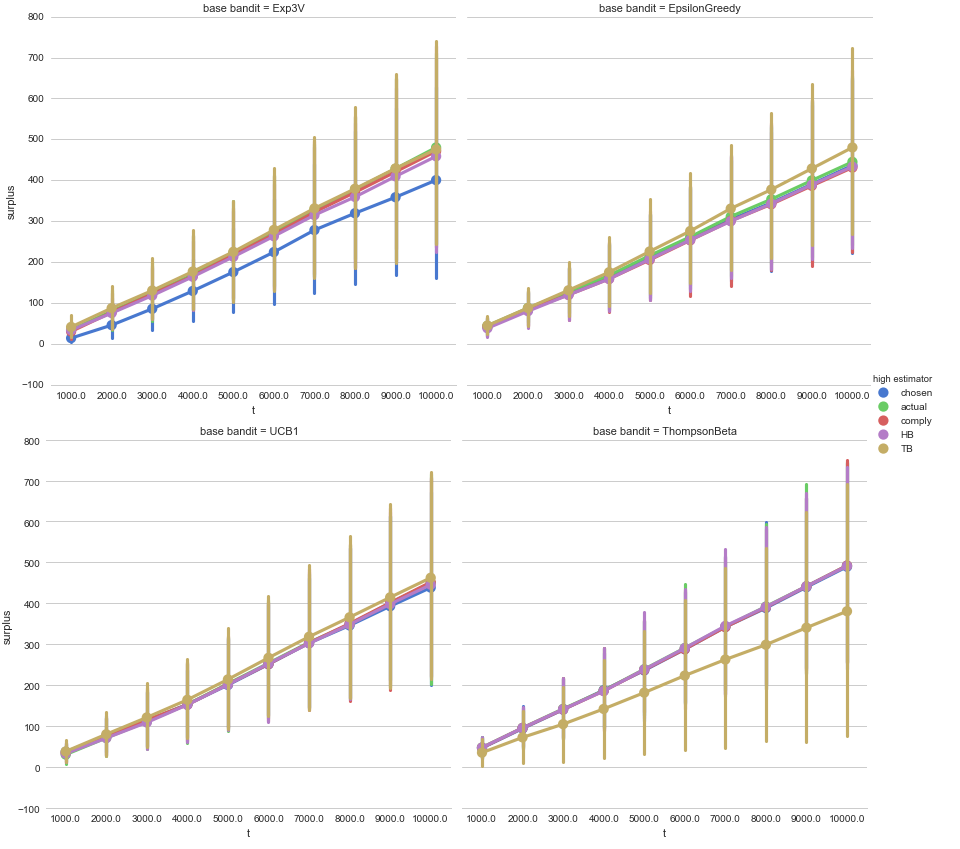
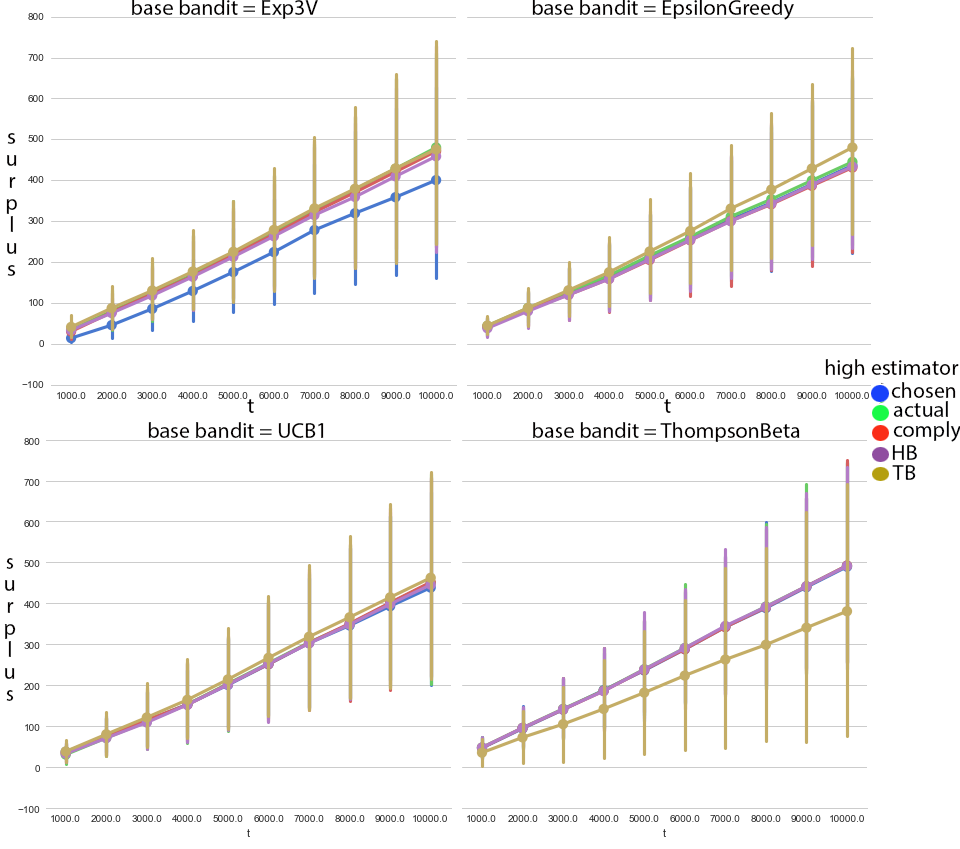
Updates from Overleaf

diff --git a/advice/market.tex b/advice/market.tex
@@ -16,7 +16,7 @@ This chapter considers a subject facing a decision, who wishes to incentivize mu
 Experts do not have intrinsic interest in the action the subject chooses or actually takes, nor do they face any costs in acquiring their signals.
 This model is closely related to that studied in \emph{decision markets}, but varies by requiring that the subject of the decision maintain autonomy over what action is taken. This effectively rules out those mechanisms for decision markets that constraint the action taken.
 
-Preserving subject autonomy is an inherently desirable practical design criterion, as it enables no-regret exploration on the part of the subject. The subject remains in control of the decision at all points, so trying using the mechanism cannot restrict their choices or reduce their expected welfare.\footnote{One can set a reserve price of the advice auction to the expected value of the action the agent would have picked if she did not participate in the mechanism. As long as the reserve price is set a priori or alternative reports from the non-winning bidders are the only thing used to set it, the incentives do not change from those analyzed here.}.
+Preserving subject autonomy is an inherently desirable practical design criterion, as it enables no-regret exploration on the part of the subject. The subject remains in control of the decision at all points, so trying using the mechanism cannot restrict their choices or reduce their expected welfare.\footnote{One can set a reserve price of the advice auction to the expected value of the action the agent would have picked if she did not participate in the mechanism. As long as the reserve price is set a priori or alternative reports from the non-winning bidders are the only thing used to set it, the incentives do not change from those analyzed here.}
 
 
 
@@ -28,13 +28,15 @@ The key conceptual contribution that allows this is to consider the allocation n
 The item to be allocated is the right to observe the signal reports, provide the advice, and obtain a (linear) share of the reward obtained by the subject.
 We term these mechanisms \emph{advice auctions}.
 The term ``advice'' is chosen to highlight that the decision is not ultimately determined by the market, thus preserving the subject's freedom.
-The term ``auction'' highlights that this procedure does not produce a sequence of prices through time.
-It is this simultaneous nature that allows us to side-step the negative (from the perspective of freedom) results that constrain sequential mechanisms to having full support over actions in order to provide  incentives.
+The term ``auction'' highlights that this procedure does not produce a sequence of prices through time, in contrast to market maker based approaches.
+It is this simultaneous nature that allows us to side-step the negative (from the perspective of freedom) results that constrain sequential mechanisms to having full support over actions in order to provide aligned incentives.
 
 Sharing rewards after choosing what decision to advise is neither a pure private value (since the optimal choice conditional on information makes the value the same for everyone) nor pure common value (since the ability the select the optimal choice given access to the other signals might vary across agents).
 A advantage of this framing as opposed to having a mechanism that directly outputs a chosen action is that it allows for the expert making the recommendation to have different influences on the subject (i.e. some experts may be more persuasive).
 If the mechanism output was a choice to advise the subject directly, we would have to restrict the expected reward the subject receives not to depend on which expert submitted which report. This can be seen as  a limit on subject freedom, since it it is an external constraint.
 By having the mechanism select the expert instead of the choice, it also becomes natural to extend to the more practical setting that does not require the mechanism to have access to the valuation functions, but instead rely on the highest bidder to be able to aggregate reported signals effectively.
+
+% bergemann2009information has a creference that only the indepdent signals can be detail free from 
 
 %This closely follows work on efficiency allocation with interdependent values , and our mechanism has the same two steps: first agents submit their signals so as to be able to determine the probabilities over states of the world, and the results of that are used to pick an efficient allocation in what is private .  
 
@@ -43,8 +45,8 @@ By having the mechanism select the expert instead of the choice, it also becomes
 
 One way to incentivize the experts is by applying the machinery of prediction markets based on sequentially shared proper scoring rules to the expected reward conditional on the action.
 A challenge that presents itself is how to settle the markets for the reward conditional on the action which is not taken.
-One natural approach is to void the trades in the markets for these actions, this being the originally proposed mechanism in this line of work \citep{hanson2002decision}, and only settling the markets where actions are taken.
-While seemingly natural, this is not incentive compatible for the experts, even in the weak myopic sense, as shown in \citep{othman2010decision}. 
+One natural approach is to void the trades in the markets for these actions, this being the originally proposed mechanism in this line of work by \citet{hanson2002decision}, and only settling the markets where actions are taken.
+While seemingly natural, this is not incentive compatible for the experts, even in the weak myopic sense, as shown in \citet{othman2010decision}. 
 
 To understand why this is the case, consider a last trader facing the prediction market (sequential proper scoring rule)  where the  price is correct (matches the expected reward) for the optimal action, but there is some other action that is mispriced. The profit maximizing move for this trader is to lower the price of the optimal action below the true price of the previously mispriced action, and correct the mispriced action to its true  price. 
 The utility maximizing subject would then carry out the suboptimal action, the expert would be rewarded for correctly predicting it and would receive no punishment for the error she introduced into the reward of the optimal action. 
@@ -116,11 +118,12 @@ The payment rules $p_i: \times _j S_j \rightarrow \mathbb R$ map the reported si
 Experts are risk neutral, so their expected utility is quasilinear, given in the reduced form by $x_i (\vec{b}) \cdot v_i(\vec{s}) - p_i(\vec{b})$ where $\vec{s}$ is the true signal profile of the experts.
 
 
-One cannot hope for truth-telling to be a dominant strategy for the experts. One expert's misreport can cause other experts to also misreport to compensate. Thus the strongest incentive-compatibility (IC) notion that we can hope for in this setting is that truthfulness is an ex-post Nash Equilibrium. That is, it is in every agent $i$'s best interest to report her true signal $s_i$ given that all other agents reported the true signal profile $\vec{s}_{-i}$. Formally, for all $\vec{s} \in \times _{j} \  S_j, b_i \in S_i$ we have
-$$x_i(\vec{s}) \cdot v_i(\vec{s}) - p_i(\vec{s}) \geq x_i(b_i, \vec{s}_{-i}) \cdot v_i(\vec{s}) - p_i(b_i, \vec{s}_{-i})$$
+One cannot hope for truth-telling to be a dominant strategy for the experts. One expert's misreport can cause other experts to also misreport to compensate. Thus the strongest incentive-compatibility (IC) notion that we can hope for in this setting is is ex-post Nash Equilibrium. That is, it is in every agent $i$'s best interest to report her true signal $b_i = s_i$ given that all other agents reported their true signals profile $b_{-i} = \vec{s}_{-i}$. Fix a signal profile $\vec{s} \in \times _{j} \  S_j$. For all $b_i \in S_i$ we have $$x_i(\vec{s}) \cdot v_i(\vec{s}) - p_i(\vec{s}) \geq x_i(b_i, \vec{s}_{-i}) \cdot v_i(\vec{s}) - p_i(b_i, \vec{s}_{-i})$$
 %TODO should this equation go, too?
 
+We use the equivalent, ex-post notion of individually rational (IR): $$x_i(\vec{s}) \cdot v_i(\vec{s}) - p_i(\vec{s}) \geq 0$$
 
+As is standard we say a mechanism is truthful when it is both incentive compatible and individually rational.
 
 %As in \citep{mclean2004informational} an experts  information may be of two qualitatively different kinds: information about the objective characteristics of the subject and the effects of their alternative decisions and how generally persuasive they are to find the recommended action.
 %Idiosyncratic information about the agent himself: their ability to aggregate the signals efficiently, and how persuasive the would result as the advisors who selected $c$ in the second stage of the game. 
@@ -139,7 +142,7 @@ The core of the mechanism is simple. Since there is knowledge by the mechanism o
    That is, the allocation rule is
 
 %$$x(\vec{s}) = i \quad \quad\quad \text{when} \quad\quad\quad x_j(\vec{s}) = \begin{cases} 1 & \text{if } j=i \\ 0 & \text{otherwise.} \end{cases}$$
-   $$x_i(\vec{b}) = \begin{cases} 1 & \text{if } i = i^* \\ 0 & \text{otherwise.} \end{cases}$$
+   $$x_i(\vec{b}) = \begin{cases} 1 & \text{if } i = argmax_j \{v_j(\vec b)\}  \\ 0 & \text{otherwise.} \end{cases}$$
       %TODO did i do this right?
 
 This lets the expert $i^*$ observe  $\vec{b}$ and then select $c$.
@@ -161,25 +164,29 @@ The payment rule then is
 An allocation function $x_i$ is called {\sl deterministic} if $x_i(\vec{b})\in \{0,1\}$ for all $i$ and all $\vec{b}$.
 The generalized direct VCG mechanism is deterministic and prior-free.
 
+
+
 \subsection{Truthfulness with Single Crossing Signals}
+
+The advice auction provides incentives for experts to provide good advice since they stand to share in the profits. In the simple case where the experts each know all they need to provide the advice and know what outcome to expect form it, the expert who can provide advice that leads to the actual action taken by the agent having the highest reward also has the highest valuation for giving the advice. The link to auction theory allows to immediately derive results when the information structure of the experts is more complicated, such that they need to consider the signals (as expressed in their bids) of the other experts to decide upon the optimal advice or value the reward the agent (and thus them if they win) is likely to obtain. The appropriate auction theoretic framework for this is that of interdependent signals. 
+
 %TODO define truthfulness
 \begin{defn}[Monotonicity]
 	An allocation function $x_i$ is said to be \emph{monotone} if for every $\vec{b}_{-i}$, $x_i(b_i,\vec{b}_{-i})$ is monotone non-decreasing in $b_i$.
 \end{defn}
 
-Truthful mechanisms can be characterized as follows \citep{roughgarden2016optimal}.
+Truthful mechanisms can be characterized as follows as in \citet{roughgarden2016optimal} Proposition 5.1.
 
 \begin{prop}\label{prop:char-ic}
 	Monotonicity is a necessary and sufficient condition for allocation functions $x$ to be \emph{implementable}, {\sl i.e.}, there exist payment functions $p$ such that the mechanism $(x,p)$ is truthful.  Moreover, an analogue of Myerson's payment identity holds, so the payment is uniquely determined by the allocation function.%TODO give reference to Myerson.
 \end{prop}
 
 It follows that constructing a truthful mechanism is equivalent to constructing a monotone allocation function.
-For deterministic truthful mechanisms, the payment identity of \citep{roughgarden2016optimal} implies the following about the cost charged to a chosen expert  \citep{eden2018interdependent}.
+For deterministic truthful mechanisms, the payment identity of \citet{roughgarden2016optimal} implies the following about the cost charged to a chosen expert  \citep{eden2018interdependent}.
 
 \begin{prop}\label{prop:deterministic_payment}
 	Let agent $i$ be the allocated winner at report profile $\vec{b}$ in a deterministic truthful mechanism. Then her cost is her value at the critical signal.
 \end{prop}
-
 
 A single-crossing condition captures the idea that bidder $i$'s signal has a greater effect on experts $i$'s value than on any other expert's value. We follow the definition in \citep{eden2018interdependent}:
 
@@ -227,12 +234,12 @@ The challenge this faces is that the signal reports being submitted would not ma
 	Then the mechanism gives the rights bundle to the expert $i^*$ with the highest bid:
 	
 	%$$x(\vec{b}) = i \quad \quad\quad \text{when} \quad\quad\quad x_j(\vec{b}) = \begin{cases} 1 & \text{if } j=i \\ 0 & \text{otherwise.} \end{cases}$$
-   $$x_i(\vec{b}) = \begin{cases} 1 & \text{if } i = i^* \\ 0 & \text{otherwise.} \end{cases}$$
+   $$x_i(\vec{b}) = \begin{cases} 1 & \text{if }  i = argmax_j \{v_j(\vec b)\ \\ 0 & \text{otherwise.} \end{cases}$$
       %TODO again: did i do this right?
 	
       This lets the expert $i^*$ observe  $\vec{b}$ and $\vec s$ and then select $c$. The subject then observes $c$ and $\vec{b}$, takes their action $a$ and receives reward $r$, which the mechanism observes. 
 
-	The experts that were not selected receive  payment $\beta r$, while the selected expert $i^*$ receives their shares $(\alpha + \beta) r$ of the reward minus the second highest bid, $b_{i^*-1}$.
+	The experts that were not selected receive  payment $\beta r$, while the selected expert $i^*$ receives their shares $(\alpha + \beta) r$ of the reward minus the second highest bid. Without loss of generality we sort the bids, so the second highest is denoted by $b_{i^*-1}$.
 
 	Thus, the payment rule is:
 	
@@ -274,7 +281,7 @@ For contrast consider the identical mechanism but without the experts submitting
  	Each expert observes their signal and then report only a bid $b_i$. The mechanism gives the rights bundle to the expert $i^*$ with the highest bid:
  	
 % 	$$x(\vec{b}) = i \quad \quad\quad \text{when} \quad\quad\quad x_j(\vec{b}) = \begin{cases} 1 & \text{if } j=i \\ 0 & \text{otherwise.} \end{cases}$$
- 	   $$x_i(\vec{b}) = \begin{cases} 1 & \text{if } i = i^* \\ 0 & \text{otherwise.} \end{cases}$$
+ 	   $$x_i(\vec{b}) = \begin{cases} 1 & \text{if } i = argmax_j \{v_j(\vec b)\ \\ 0 & \text{otherwise.} \end{cases}$$
       %TODO again: did i do this right?
 	
  	
@@ -299,11 +306,11 @@ For contrast consider the identical mechanism but without the experts submitting
  
  This kind of indirect mechanism is inherently limited when the values from signals of experts are interrelated (as we proved before). Their bid cannot encode the full information contained in the signals, and thus this limits any mechanism that relies solely on single rounds of bids to aggregate information.
  
- To illustrate this, consider a setting that satisfies the single max bidder assumption.%TODO what is this assumption?
+ To illustrate this, consider a setting that satisfies the single max bidder assumption. %TODO what is this assumption?
  Denote by $i^*$ the expert whose valuation is higher than all other experts' in every state of the world and who knows the subject trust them completely, so if she wins it will be $c=a$. Have a second expert $j$ whose value is $0$ in all states of the world\footnote{For example, the expert might know the subject is biased and refuses to hear the expert due to the color of her skin.}, but that has a binary independent signal $s_{treat}$ that determines which choice is best for the subject. Without knowing $s_{treat}$ the two best choices have equal expected reward $r$, while knowing the value of $s_{treat}$ allows $i^*$ to select the appropriate choice and results in double the reward $2r$.
  Since $j$'s value for the rights bundle is always 0, her bid is in equilibrium. 
  There is no prior-free way for the unpersuasive expert to encode her signal into her bid (even through she is incentivized to reveal their signal to get a higher $\beta$ payment). 
- Notice that there is no limit in the size of the gap in the rewards between the two allocations in general, as in the example above we can replace $2$ by any number.
+ Notice that there is no limit in the size of the gap in the rewards between the two allocations in general, as in the example above we can replace $2$ by any positive number.
  
  
 

diff --git a/background.tex b/background.tex
@@ -66,8 +66,7 @@ For each round:
 \item The algorithm observes the reward which depends on its realized action and the realized action of the environment
 \end{enumerate}
 
-A crucial aspect of online learning is the feedback model. Two fundamental extremes are full feedback and the bandit setting. In the first, after realizing a reward, the reward that would have been obtained for any other choice of action by the algorithm is also revealed. In the second, only the reward of the chosen action is revealed. %TODO revealed to whom?
-More generally, prediction with partial monitoring \cite{cesa2006regret} generalizes this as follows:
+A crucial aspect of online learning is the feedback model, that is what about the received reward is revealed to the decision making process, be it an agent or an algorithm. Two fundamental extremes are full feedback and the bandit setting. In the first, after realizing a reward, the reward that would have been obtained for any other choice of action by the algorithm is also revealed. In the second, only the reward of the chosen action is revealed. More generally, prediction with partial monitoring \cite{cesa2006regret} generalizes this as follows:
 
 \begin{enumerate}
 \item The environment chooses an action without revealing it
@@ -84,17 +83,19 @@ The feedback and loss matrices are known. In the full information setting, the f
 \subsection{Bandit Algorithms}
 %TODO what is a bandit algorithm?!
 
-Our conceptual contributions are largely agnostic about the underlying algorithm that is used.
+A one-armed bandit is a anachronistic term for a slot machine. A motivating example in the literature is that of a gambler faced with a set of slot machines, each of which has a different expected reward, and the gambler wishes to find a good strategy to eventually concentrate their play in that with the highest payout. Replacing such slot machines with potential medical treatments (in our motivating example) or with potential online advertisements on the web (in the motivation of much contemporary machine learning research). Two lines of analysis of the regret of algorithms in this settings depend on if the payout distribution is assume fixed (the stochastic setting) or is allowed to vary arbitrarily (the adversarial setting). Within the adversarial setting,  variation in the rewards that can be instantiated before the game (non-adaptive) or at each step of the game (an adaptive adversary). 
+
 Three main families of algorithms with theoretical guarantees exist in the literature, and are based on Bayesian, upper confidence bounds and exponential weights. We also explore a  heuristic algorithm, epsilon greedy, which has been observed to often have good empirical performance \cite{kuleshov:14}.
 
-Thompson Sampling is a very natural bayesian algorithm with good practical performance, first proposed in the literature by \cite{thompson:33}: it plays each action with probability equal to its posterior probability of being the best action, given the rewards observed up to that point.
+Thompson Sampling is a very natural bayesian strategy first proposed in \cite{thompson:33}. It selects each action with probability equal to its posterior probability of being the best action, given the prior and rewards observed up to that point. It has excellent practical performance characteristics \cite{chapelle2011empirical}. It analysis in the stochastic case has been 
 
 A second family of algorithms encountered in the literature are based on Upper Confidence Bounds (UCB) and originate in (\cite{lai:85,katehakis1995sequential,agrawal1995sample}). They play the action with the highest upper bound on its expected value. This embodies the principle of optimism in the face of uncertainty. A finite time analysis of the regret was presented in (\cite{auer:02a}).
 
-A third family, based on exponential weights, offers maximally robust guarantees, in the sense that it has close optimal (minimax) performance with regard to arbitrary non-stochastic underlying sequences of rewards. This becomes useful when we wish to create hierarchical bandits when the original sequence may not be independent and identically distributed (IID); the sequence that results from a bandit algorithm's choices will not be by construction.
+A third family, based on exponential weights, offers maximally robust guarantees, in the sense that it has close optimal (minimax) performance with regard to arbitrary non-stochastic underlying sequences of rewards. This becomes useful when we wish to create hierarchical bandits when the original sequence may not be independent and identically distributed (IID); the sequence that results from a bandit algorithm's choices will not be so by construction.
 
-A thorough analysis of bandit algorithms with adversarial regret guarantees can be found in( \cite{bubeck:12, banditalgo2016}). 
-%TODO one examiner wants more explanations of the whole section, especially thompson sampling
+ Our conceptual contributions are agnostic about the specific underlying algorithm that is used, as long a regret guarantee against a adaptive adversary holds. A thorough analysis of bandit algorithms with adversarial regret guarantees can be found in( \cite{bubeck:12, banditalgo2016}). The underlying intuition as to why a adaptive adversary is sufficient is that whatever dependencies are introduced into the sequential process by the compliance aware algorithm cannot be worse than those, since otherwise the adaptive adversary could adapt such a strategy.
+ 
+
 
 \section{Mechanism Design}
 
@@ -241,11 +242,12 @@ The subject's freedom makes no difference in the analysis of the fully supervise
 
 \section{Decision Markets}
 
-Can markets be used not just to understand the underlying distribution over future states of the world, but to select which action to take so as to induce the best distribution? In the vivid image of (\cite{mackenzie2008engine}), a market as \emph{an engine, not a camera}. %TODO one examiner does not like the use of this metaphor. also this is not a full sentence.
-The idea of using prediction markets for decision support originates in (\cite{berg2003prediction,hanson2002decision}). 
+Can markets be used not just to understand the underlying distribution over future states of the world, but to select which action to take so as to induce the best distribution? %In the vivid image of (\cite{mackenzie2008engine}), a market as \emph{an engine, not a camera}.%TODO one examiner does not like the use of this metaphor. also this is not a full sentence.
+The idea of using prediction markets for decision support originates at least as far back as (\cite{berg2003prediction,hanson2002decision}). 
 These mechanisms rely on running a prediction market for the outcome variable of interest for each possible action that the decision maker can take, and voiding those markets for the action not taken.
 
-%TODO what is a corporate predictopn market?
+Corporate prediction markets (\cite{ortner1998forecasting,cowgill2015corporate})  are attempts to have corporate insiders trade claims whose payouts is contigent on a event of interest to their company, such the date a product will ship. In some cases the claims are traded via double auction as in stock markets, while in others a automated market maker is used to provide liquidity. 
+
 In (\cite{othman2010decision}), the authors argue that corporate prediction markets do not capture the right problem for their clients. In particular, by focusing on eliciting probabilities about what their effects will be after decisions have been made, they cannot be used to inform those decisions. It then considers the manipulability of a decision market where (in our terminology) the subject seeks to maximize their utility by always selecting the action that the market prices indicate is best, hence following the \emph{max decision rule}. It is then shown that there are no incentive compatible market scoring rules (and thus by equivalence cost function) markets under this decision rule with multiple experts. %TODO incentive compatible market scoring rules markets?
 The intuition is elementary: the last expert to trade with the market can force which of the conditional markets will be settled, so they maximize their profits by changing the price that is most incorrect, and lowering the price of all other actions bellow that.
 These results are formally generalized in (\cite{chen2014eliciting}), to show that the subject must use a decision rule with full support to create the right incentives in conditional prediction markets that are used for decision support.

diff --git a/bandit/intro.tex b/bandit/intro.tex
@@ -26,7 +26,7 @@ Unfortunately, compliance information is a two-edged sword. There are settings w
 \subsection{Outline}
 Section~\ref{sec:noncompliance} introduces the formal compliance setting and introduces three protocols for incorporating compliance information into bandit algorithms. Each protocol has strengths and weaknesses.
 
-The simplest protocol ignores compliance information -- yielding the classical setting where standard regret bounds hold. If instead of attending to its recommendations the algorithm attends to whether the subject actually follows the recommendation, it is possible to learn faster than without compliance information. On the other hand, there are no guarantees on convergence when an algorithm attends purely to the compliance of subjects and ignores its own prior recommendations -- examples of linear regret are provided in section~\ref{sec:protocols}. A natural goal is thus to simultaneously incorporate compliance information whilst preserving the no-regret guarantees of the classical setting. We present two hybrid algorithms that do both.
+The simplest protocol ignores compliance information -- yielding the classical setting where standard regret bounds hold. If instead of attending to its recommendations the algorithm attends to whether the subject actually follows the recommendation, it is possible to learn faster than without compliance information. On the other hand, there are no guarantees on convergence when an algorithm attends purely to the compliance of subjects and ignores its own prior recommendations. A natural goal is thus to simultaneously incorporate compliance information whilst preserving the no-regret guarantees of the classical setting. We present two hybrid algorithms that do both.
 
 The first, \texttt{HierarchicalBandit}, is a two-level bandit algorithm. The bottom-level learns three experts that specialize on different kinds of compliance information. The top-level is another bandit that learns which expert performs optimally. The algorithm thus has no-regret against both the treatments and two natural reward protocols that incorporate compliance information.
 
@@ -39,7 +39,8 @@ In contrast, the best performing strategy that is not compliance aware is Thomps
 
 
 \subsection{Comparison with other bandit settings}
-It is useful to compare noncompliance with other bandit settings. Partial monitoring is concerned with situations where the player only partially observes their loss \cite{alon:15}. Our setting is an extension of the bandit setting, where additional compliance information is provided. Whether or not a patient complies is a form of side-information. However, in contrast to the side-information available to contextual bandits, compliance is only observed \emph{after} an arm is pulled. An interesting question, left for future work, is how contextual and compliance information can both be incorporated into bandit algorithms simultaneously.
+
+It is useful to compare noncompliance with other bandit settings. Partial monitoring is concerned with situations where the player only partially observes their loss \cite{alon:15}. In contrast, our setting the losses are observed as in the classic bandit setting, while imperfect control over the action taken is introduced.  Our setting is an extension of the bandit setting, where additional compliance information is provided which allows for leveraging this imperfect control beyond the standard setting. Whether or not a patient complies is a form of side-information. However, in contrast to the side-information available to contextual bandits, compliance is only observed \emph{after} an arm is pulled. An interesting question, left for future work, is how contextual and compliance information can both be incorporated into bandit algorithms simultaneously. 
 %TODO this is weird. what does partial monitoring have to do with side-information and contextual bandits? also maybe explain contextual bandits / side-information
 
 Hybrid algorithms were previously proposed in the best-of-both-worlds scenario (\cite{bubeck:12a,seldin:14}), where the goal is to construct a bandit that plays optimally in both stochastic and adversarial environments. Vapnik introduced a related notion of side-information into the supervised setting with his learning under privileged information framework (\cite{vapnik:09}). 
@@ -48,6 +49,6 @@ Hybrid algorithms were previously proposed in the best-of-both-worlds scenario (
 An important point of comparison is the bandits with unobserved confounders model introduced in (\cite{bareinboim:15}). That paper was motivated using an extended example involving two subpopulations (drunk and sober) gambling in a casino. Since we are primarily interested in clinical applications, we map their example onto two subpopulations of patients, rich and poor. Suppose that rich patients always take the treatment (since they can afford it) and that they are also healthier in general. Poor patients only take the treatment when prescribed by a doctor.
 
 In \cite{bareinboim:15}) they observe that the question ``what is the patient's expected reward when taking the treatment?'' is confounded by the latent variable \texttt{wealth}. Estimating the effect of the treatment -- which may differ between poor and rich patients -- requires more refined questions. In our notation: 
-``what is the patient's expected reward when taking the treatment, given she is wealthy?'' and  ``what is the patient's expected reward when taking the treatment, given she is poor?'', see example~\ref{eg:rich}.
+``what is the patient's expected reward when taking the treatment, given she is wealthy?'' and  ``what is the patient's expected reward when taking the treatment, given she is poor?''.% see example~\ref{eg:rich}.
 The solution proposed in (\cite{bareinboim:15}) is based on the regret decision criterion (RDC), which estimates the optimal action to be the one maximizing the expected reward given the patient's inclination, where the action chosen may \emph{differ} from the patient's latent inclination. Essentially, computing the RDC requires imposing interventions. However, overruling a patient or doctor's decision is often impossible and/or unethical in clinical settings. The counterfactual information required to compute the RDC may therefore not be available in practice.
 Compliance information does not act as a direct substitute for imposition of interventions. However, compliance information is often readily available and, as we show below, can be used to ameliorate the effect of confounders by giving a partial view into the latent structure of the population that the bandit is interacting with.

diff --git a/intro.tex b/intro.tex
@@ -139,10 +139,11 @@ When we focus on incentive compatibility, we do so for the experts, not the subj
 Assuming a utility maximizing subject -- one that uses the max decision rule -- restricts the freedom of that subject.
 For example, having unstable preferences that will change once the mechanism commences brings both limits and possibilities.
 While it limits the richness of the mechanics we can use (since we need to account for a subject that may or may not respond to incentives), it also liberates the analysis from constraints created by assuming all subjects are rational.
-For example, in bayesian  exploration \citep{mansour2015bayesian} there are priors over arms rewards where some arms are never explored, even through they may be optimal with positive probability \footnote{They might even be optimal with a probability of almost one half}. The possibility of some share of agents not being utility maximizers means the mechanism can explore such arms.
+For example, in bayesian  exploration \citep{mansour2015bayesian} there are priors over arms rewards where some arms are never explored, even through they may be optimal with positive probability \footnote{They might even be optimal with a probability of almost one half}. The reason for this is that a rational selfish agent does not internalize the benefit of exploration when exploitation will be carried out by later agents. The possibility of some share of agents not being expected utility maximizers means such arms may be explored. 
+
 %TODO one examiner thinks this needs more explanation.
 
-While the direct decision elicitation mechanism we propose sidesteps the main problems of previously proposed mechanisms, it makes very strong use of a common prior assumption that extends over both compliance probabilities of subjects and a common prior probability distribution accross experts over their joint signals. This creates a tension with the canonical concern of Wilson (1987):
+While the direct decision elicitation mechanism we propose sidesteps the main problems of previously proposed mechanisms, it makes very strong use of a common prior assumption that extends over both compliance probabilities of subjects and a common prior probability distribution accross experts over their joint signals. This creates a tension with the canonical concern of \citep{wilson1987}:
 %TODO cite properly
 
 
@@ -162,12 +163,12 @@ The relation between the different settings considered in this thesis and in the
 		\midrule
 		Forecasting & T  & past rewards for all actions & Minimax  \\
 		Bandit & T  & past rewards &  Minimax  \\
-		Peer Prediction & 1 & N strategic reports & BNE \\
-		Prediction Market & 1 & N reports, full reward vector &  NE\\
-		Decision Market & 1 & N reports, reward for action & NE  \\
-		Advice Auction  & 1 & N reports, reward for action, taken action & NE  \\
-		Compliance Aware Bandit & T  & reward for action and compliance & minimax \\
-		N sided Advice Markets  & T  &  N  reports and rewards for actions & NE  \\
+		Peer Prediction & 1 & N reports & BNE \\
+		Prediction Market & 1 & N reports, reward vector &  NE\\
+		Decision Market & 1 & N reports, reward  & NE  \\
+		Advice Auction  & 1 & N reports, reward, taken action & NE  \\
+		Compliance Aware Bandit & T  & reward and taken action & minimax \\
+		N sided Advice Markets  & T  &  N  reports, rewards taken action & NE  \\
 		\bottomrule
 	\end{tabular}
 	\caption{Relation between learning settings in the thesis and literature.}
@@ -184,7 +185,7 @@ During the course of the PhD I also collaborated on related publications in, pre
 \section{Thesis Outline}
 \label{sec:outline}
 
-In Chapter~\ref{cha:background}, we provide background about the two settings that this thesis makes contributions to. In Chapter~\ref{cha:bandit}, we present two novel classes of algorithms and associated regret guarantees that take into account the underlying freedom not to comply with an algorithm's chosen treatment. We then study the empirical performance  of these algorithms based on both synthetic and real data in Chapter~\ref{cha:empirical}.
+In Chapter~\ref{cha:background}, we provide background on the two settings that this thesis contributes to. In Chapter~\ref{cha:bandit}, we present two novel classes of algorithms and associated regret guarantees that take into account the underlying freedom not to comply with an algorithm's chosen treatment. We then study the empirical performance  of these algorithms based on both synthetic and real data in Chapter~\ref{cha:empirical}.
 In Chapter~\ref{cha:market}, we turn our attention to eliciting an optimal action, and offer the first incentive compatible algorithm for elicitation from multiple experts that does not restrict the agent's freedom. We show it to be optimal while exploring some of its practical limitations from its extensive use of a common prior, as well as what is lost when we move to a simpler mechanism that relies on bids instead of signals.
 In Chapter~\ref{cha:twosided}, we present a novel setting with both multiple experts and multiple subjects that arrive sequentially, which we term \emph{two sided decision markets}. We propose an extension of the simple mechanism based on a sequence of second price auctions that internalizes the benefits of exploration, while rewarding only valuable experts.
 

diff --git a/advice/twosides.tex b/advice/twosides.tex
@@ -1,6 +1,6 @@
 %!TEX root = main.tex
 
-\subsection{Introduction}
+\section{Introduction}
 
 This chapter differs from the previous ones in its relationship to the thesis. 
 While before we seek to extend the understanding of previously presented settings (bandit algorithms and decision markets), this chapter seeks to introduce a new setting that generalizes these two.
@@ -52,7 +52,7 @@ The game occurs over $T$ steps. At each step:
 \begin{enumerate}
 \item A new subject $t$ arrives and each $i$ of $K$ experts receives a signal $s_{t,i}$ for that subject. The mechanism  randomly allocates a contingent transfer payment of $\vec{\gamma_t}$ for each of the possible actions facing the subject. %TODO what is a transfer payment?
 \item Each expert $i$ reports ${b}_{t,i}$ to the mechanism. After all reports are received, the mechanism selects an expert $i^{*}$ to suggest an action $c_t$.
-\item The subject observes $c_t$, $a_t'$ and ${b}_{t,i}$, picks an action $a_t$, and receives a reward $r_t$. %TODO what is a_t'?
+\item The subject observes $c_t$ and ${b}_{t,i}$, picks an action $a_t$, and receives a reward $r_t$. %TODO what is a_t'?
 \item The mechanism provides feedback about $s_t$, $c_t$, $a_t$, and $r_t$ to experts. %TODO do you mean \vec s?
 \end{enumerate}
 
@@ -85,7 +85,7 @@ One could attempt running the direct mechanism of chapter 5 repeatedly, once for
 \[
     \pi_i = \sum_1^T 
 \begin{cases}
-   \alpha (r - \expec[\hat{r^{(t)}}_{-i}]) & \text{if } \hat{c}^{(t)}_{-i} \neq c^{(t)}\\
+   \alpha (r - \expec[\hat{r_{t}}_{-i}]) & \text{if } \hat{c}^{(t)}_{-i} \neq c^{(t)}\\
     0              & \text{otherwise}
 \end{cases}
 \]
@@ -113,7 +113,7 @@ Note that the example weakly satisfies a single crossing signal structure on a s
  \end{defn}
 
 
-Under full disclosure, a repeated version of the Chapter 5 Direct Reward Sharing Mechanism (DRSM) in Example~\ref{eg:2regimes} has a NE results in the greedy policy. %TODO this sentence seems to have two endings? choose one.
+Under full disclosure, a repeated version of the Chapter 5 Direct Reward Sharing Mechanism (DRSM) when applied to this chapters Example~\ref{eg:2regimes} has a NE that results in the greedy policy. %TODO this sentence seems to have two endings? choose one.
 Given that there is no winner's curse due to the signal structure\footnote{that is, the winner of the auction who  bids her value without conditioning that value on having won the auction (which implies having the highest signal) gets the same payoff as if they do condition.}, both agents bid their valuations. %TODO blue handwriting friend wants to know what the wintter's curse is
 If the winner of the auction does not choose the safe arm, and instead explores in that period, she receives a lower payoff in expectation in that period. In future periods their bid, and by symmetry and under full disclosure the other agents' bids, are higher, since they can now deduce the higher payoff arm, and that is their new expected value. Thus given the second price mechanism their payoffs are no higher in later periods. Exploration is not in equilibrium. 
 
@@ -147,7 +147,7 @@ To overcome the exploration limitation of the repeated one shot mechanism, a mec
 This naturally motivates a mechanism that generalizes the expert bidding mechanism, by providing the expert with rewards proportional to all future periods when it wins the auction.
 
 \begin{mech}[Bidding for Ownership of Choice Mechanism  (BOCM)]
-An expert $i$ is the \emph{owner} at a given time period $t$ if she has won the last auction that had a winner (if no bids in an auction meet the reserve price, the owner remains unchanged).
+An expert $i$ is the \emph{owner} at a given time period $t$ if she has won the auction, or if she has won the last auction that had a winner (if no bids in an auction meet the reserve price, the owner remains unchanged). 
    Denote by $o^{(t)}_{i}$ an indicator variable that takes value $1$ if the agent $i$ was the \emph{owner} of the choice at time $t$, and $0$ otherwise. Further, let $\check b^{(t)}$ denote the second highest bid that was placed in round $t$. The payment rule of this mechanism is
 
 \[

diff --git a/bandit/model.tex b/bandit/model.tex
@@ -37,13 +37,13 @@ The standard bandit setting is when $a^{(t)}$ is either unobserved or $a^{(t)}=c
 %Let $A$ be the random variable describing the action that is carried out, $C$ the random variable describing the choice taken by the subject, and let $U$ be the latent variables. We define the ``noncompliance level'' $n(c, u)$ for a specific choice $c$ and latent variable value $u$ mean the probability that $A \neq c$ given those values, that is, $n(c, u) = 1 - P(A=c|C=c, U=u)$.
 %TODO you never use the noncompliance level again in this thesis!?
 
-The set of compliance behaviors is the set of functions $\cC=\{\nu:\cA\rightarrow\cA\}$ from advice to taken treatment \cite{koller:09}. 
+The set of compliance behaviors is the set of functions $\cC=\{\nu:\cA\rightarrow\cA\}$ from chosen to taken action.% \cite{koller:09}. 
 
 \begin{defn}[model assumptions]\label{def:assumptions}\eod
 	We make the following assumptions:
 	\begin{enumerate}
-		\item Compliance $\nu(u)\in\cC$ depends on a latent variable sampled i.i.d. for each time step from unknown distribution $\bP(U)$ over a set $U$.
-		\item Outcomes $r(\nu(u),a,u)$ depend on compliance behavior, treatment taken and the latent $u$. That is, outcomes are a fixed function $r:\cC\times \cA\times U\rightarrow[0,1]$
+		\item Compliance $\nu \in\cC$ depends on a latent variable sampled i.i.d. for each time step from unknown distribution $\bP(U)$ over a set $U$. Denote by $\nu_u$ the compliance behaviour under a given instance $u$ of the latent variable. 
+		\item Outcomes $r(a,u)$ depend on treatment taken and the latent $u$, a fixed function $r: \cA\times U\rightarrow[0,1]$. In other words, the chosen action of the algorithm can only affect the reward received by affecting the actual action taken. 
 	\end{enumerate}
 \end{defn}
 
@@ -67,7 +67,7 @@ Unfortunately, the subpopulations cannot be distinguished from observations. For
 	The expected reward given subpopulation $s$ and the actual treatment $a\in\cA$ is
 	\begin{equation}
 		r_{s,a} 
-		:= \expec_{u\sim \bP(U)}\big[r(\nu(u),a,u)\,\big|\, \nu(u)=s\big]
+		:= \expec_{u\sim \bP(U)}\big[r(a,u)\,\big|\, \nu_u=s\big]
 		\quad\text{for }s\in \{\fN, \fA,\fC,\fD\}.
 		\label{eq:exp_rew}		
 	\end{equation}		
@@ -76,7 +76,7 @@ Unfortunately, the subpopulations cannot be distinguished from observations. For
 The goal is to maximize the cumulative reward received, i.e. choose a sequence of actions $(c^{(t)})_{t\in [T]}$ that maximizes 
 
 \begin{equation}
-   \expec_{u\sim \bP(U)}\left[\sum_{t\in[T]}r(\nu(u),\nu(u)(c^{(t)}), u)\right]
+   \expec_{u\sim \bP(U)}\left[\sum_{t\in[T]}r(\nu_u(c^{(t)}), u)\right]
 \end{equation}
 
 %%%%%%%%%%%%%%%%%%%%%%%%%%%%%%%%%%%%%%%%%%%%%%%%%%%%%%%%%%%%%%%%%%%%%%%%%%%%%%%%%%%%%%%%

diff --git a/bandit/nonstationaryalgo.tex b/bandit/nonstationaryalgo.tex
@@ -91,7 +91,7 @@ The \texttt{Exp3} Algorithm (\cite{auer:02b}) is a bandit algorithm whose worst 
 To obtain a hierarchical algorithm using \texttt{Exp3} as top level, we first construct a hierarchical version of \texttt{Hedge} \citep{littlestone1994weighted, freund1997decision}, Algorithm~\ref{alg:meta-hedge}, which is applicable in the full-information variant of our setting (the model where the counterfactual value of actions can be observed). We then modify it using the principle from $\texttt{EXP3}$ to make it work for bandit feedback settings.
 
 \texttt{Hedge} (\cite{chang:05}) is an algorithm with bounded regret in the expert setting.
-On the bottom-level of our hierarchical version (Algorithm \ref{alg:meta-hedge}), there are $M$ instantiations of \texttt{Hedge}. Instantiation $i$, for $i\in[M]$, plays an $N$-dimensional weight vector and receives $N$-dimensional loss vector $\loss^{(t)}_{i}$ on round $t$. We impose the assumption that all instantiations play $N$-vectors for notational convenience. The top-level is another instantiation of \texttt{Hedge}, which plays a weighted combination of the bottom-level instantiations.
+On the bottom-level of our hierarchical version (Algorithm~\ref{alg:meta-hedge}), there are $M$ instantiations of \texttt{Hedge}. Instantiation $i$, for $i\in[M]$, plays an $N$-dimensional weight vector and receives $N$-dimensional loss vector $\loss^{(t)}_{i}$ on round $t$. We impose the assumption that all instantiations play $N$-vectors for notational convenience. The top-level is another instantiation of \texttt{Hedge}, which plays a weighted combination of the bottom-level instantiations.
 
 \begin{algorithm}
    \caption{\texttt{Hierarchical Hedge (HHedge)}}
@@ -276,7 +276,7 @@ Combining these yields the lemma
 \end{thm}
 
 \begin{proof}
-	Apply Lemma~\ref{lem:meta-exp} to $\texttt{HierarchicalBandit}$.
+	Apply Lemma~\ref{lem:meta-exp} to  $\texttt{HierarchicalBandit}$. Since chosen is one of the higher level arms in the $\texttt{HierarchicalBandit}$ the bound holds immediately. 
 \end{proof}
 
 

diff --git a/bandit/results.tex b/bandit/results.tex
@@ -36,7 +36,7 @@ Assigning an actual arm pulled in the heparin part of the trial is less clear cu
 \begin{figure}
 \begin{center}
 	%\textwidth, angle=90
-\includegraphics[width=1\columnwidth]{bandit/figs/fig1a.jpeg}
+\includegraphics[width=1\columnwidth]{bandit/figs/fig1a.png}
 \caption{\textbf{14 Day survivals:} average lives saved over uniform random policy per 10,000 patients in 10,000 simulated trials of both Aspirin and Heparin combined.}
 \label{fig1a}
 \end{center}
@@ -45,7 +45,7 @@ Assigning an actual arm pulled in the heparin part of the trial is less clear cu
 \begin{figure}
 \begin{center}
 	%\textwidth, angle=90
-\includegraphics[width=1\columnwidth]{bandit/figs/fig1b.jpeg}
+\includegraphics[width=1\columnwidth]{bandit/figs/fig1b.jpg}
 \caption{\textbf{14 Day survivals:} average lives saved over uniform random policy per 10,000 patients in 10,000 simulated trials of Aspirin and Heparin individually.}
 \label{fig1b}
 \end{center}
@@ -93,7 +93,7 @@ For comparison, $T$ was kept at 10,000, and we simulated the binary outcome case
 
 \begin{figure}
 	\centering	
-	\includegraphics[width=1\columnwidth]{bandit/figs/ex2.jpeg}\hspace{1cm}
+	\includegraphics[width=1\columnwidth]{bandit/figs/ex2.jpg}\hspace{1cm}
 	\label{fig:ex2}
 	\caption{Worse than random regret across estimators with naive uses of compliance awareness with simulated data from 100 simulations sampled from a model of a harmful treatment that is profound by selection into treatment.}
 \end{figure}
